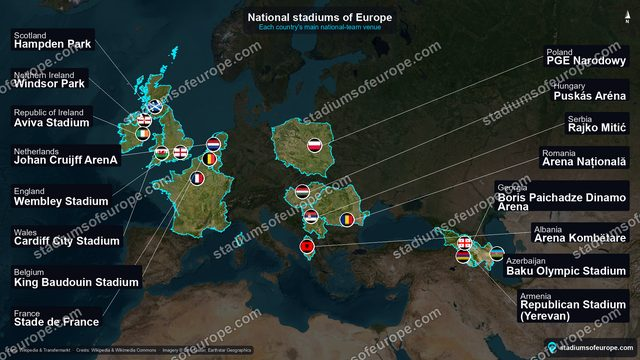
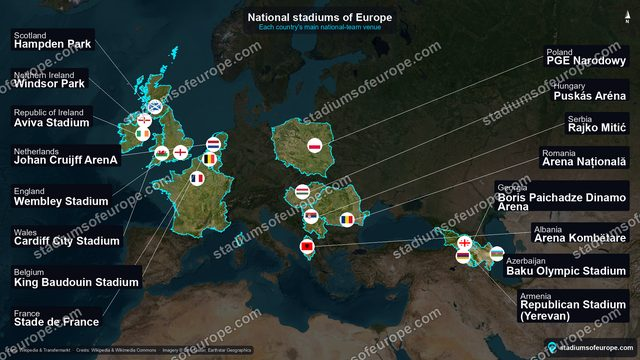
Respect a crest's own transparency, which was blacking out every badge
Juventus rendered as a solid black disc and Napoli as a navy one. Both crests
are perfectly legible over white; the renderer was destroying them.

Image.paste(im, box, mask) uses `mask` for alpha and DISCARDS the image's own
alpha channel. The badge paste passed only the circle mask, so every TRANSPARENT
pixel inside the circle was painted as its raw RGB -- and a PNG's transparent
pixels are almost always (0,0,0). The badge therefore darkened in proportion to
how transparent the crest was:

    Juventus  19% opaque -> 81% of the circle painted black
    Napoli    12% opaque -> 88%

It was never limited to those two. Every crest on every map was being darkened by
however much of it was transparent; those two are simply the ones sparse enough
to disappear completely. Multiplying the crest's alpha into the circle mask keeps
its transparency AND still crops to the circle, which is what was intended.

Worth recording how this was found, because I had it wrong twice. I first blamed
the source resolution, then _fit_badge_in_circle -- and measured both: the 1024
raster is clean and the fit is correct (84x134 artwork in a 160 box, only 26% of
the circle near-black). Compositing the SAME stored file over white by hand gave
a clean J. That contradiction is what pointed at the paste rather than the pixels.

Three paste sites fixed, three tests, and the tournament and insight PNGs
regenerated because they bake the renderer in.

260 tests pass.

diff --git a/italianstadia/italiastadiaapp/views.py b/italianstadia/italiastadiaapp/views.py
@@ -3080,7 +3080,7 @@ def _draw_inset(img, inset_stadiums, params, W, H, country_index, style_key,
         d.ellipse([px-rr, py-rr, px+rr, py+rr], fill=(255, 255, 255))
         if badge_img:
             b = badge_img.resize((BR*2, BR*2), Image.LANCZOS)
-            inset_img.paste(b, (px-BR, py-BR), _circle_mask(BR*2))
+            _paste_badge(inset_img, b, (px-BR, py-BR), BR*2)
         else:
             d.ellipse([px-BR, py-BR, px+BR, py+BR], fill=colour)
         dots.append((px, py, s))
@@ -3245,7 +3245,7 @@ def _draw_inset(img, inset_stadiums, params, W, H, country_index, style_key,
         d.ellipse([px-rr, py-rr, px+rr, py+rr], fill=(255, 255, 255))
         if badge_img:
             b = badge_img.resize((BR*2, BR*2), Image.LANCZOS)
-            inset_img.paste(b, (px-BR, py-BR), _circle_mask(BR*2))
+            _paste_badge(inset_img, b, (px-BR, py-BR), BR*2)
         else:
             d.ellipse([px-BR, py-BR, px+BR, py+BR],
                       fill=_dot_colour(s_, params, country_index))
@@ -3892,6 +3892,24 @@ def _circle_mask(d):
     return big.resize((d, d), Image.LANCZOS)
 
 
+def _paste_badge(dst, badge, xy, diameter):
+    """Paste a crest into the circular badge slot, keeping ITS OWN transparency.
+
+    Image.paste(im, box, mask) uses `mask` for alpha and DISCARDS the image's own
+    alpha channel. Passing the circle mask alone therefore painted every
+    transparent pixel inside the circle as its raw RGB, which in a PNG is almost
+    always black -- so the more transparent a crest was, the blacker its badge.
+    Juventus (19% opaque) rendered as a solid black disc and Napoli (12%) as a
+    navy one; both are legible the moment their alpha is respected.
+
+    Multiplying the two masks keeps the crest's transparency AND crops it to the
+    circle, which is what was intended all along.
+    """
+    from PIL import ImageChops
+    mask = ImageChops.multiply(badge.getchannel("A"), _circle_mask(diameter))
+    dst.paste(badge, xy, mask)
+
+
 def _compose_multi_badge(imgs, size):
     """Combine several tenant crests into one badge image (shared grounds).
     2 clubs -> left/right split; 3-4 -> 2x2 quadrants. Circle-masked by the caller."""
@@ -4153,8 +4171,8 @@ def _draw_dots_and_labels(img, stadiums, params, bbox, W, H, country_index,
             else:
                 draw.ellipse([px - rr, py - rr, px + rr, py + rr], fill=(255, 255, 255))
             if badge_img:
-                img.paste(badge_img, (px - BADGE_R, py - BADGE_R),
-                          _circle_mask(BADGE_R * 2))
+                _paste_badge(img, badge_img, (px - BADGE_R, py - BADGE_R),
+                             BADGE_R * 2)
                 draw = ImageDraw.Draw(img)
             else:
                 draw.ellipse([px - BADGE_R, py - BADGE_R, px + BADGE_R, py + BADGE_R], fill=colour)

diff --git a/italianstadia/italiastadiaapp/tests/test_data_integrity.py b/italianstadia/italiastadiaapp/tests/test_data_integrity.py
@@ -45,3 +45,48 @@ class BadgeKeyTests(SimpleTestCase):
     def test_never_returns_none(self):
         # a key of None would collapse every unkeyable row onto one badge
         self.assertEqual(_badge_key({}), "")
+
+
+class BadgeAlphaTests(SimpleTestCase):
+    """A crest's own transparency must survive the circular badge mask.
+
+    Image.paste(im, box, mask) uses `mask` for alpha and DISCARDS the image's own
+    alpha channel. Passing the circle mask alone painted every transparent pixel
+    inside the circle as its raw RGB, which in a PNG is almost always black — so
+    the more transparent a crest was, the blacker its badge. Juventus (19% opaque)
+    rendered as a solid black disc, Napoli (12%) as a navy one, and every other
+    crest was quietly darkened by however much of it was transparent.
+    """
+
+    def _badge(self, opaque_rgb=(255, 0, 0)):
+        """A crest that is a small opaque square on a transparent field."""
+        from PIL import Image
+        im = Image.new("RGBA", (40, 40), (0, 0, 0, 0))     # transparent = black RGB
+        for x in range(16, 24):
+            for y in range(16, 24):
+                im.putpixel((x, y), (*opaque_rgb, 255))
+        return im
+
+    def test_transparent_area_does_not_paint_black(self):
+        from PIL import Image
+        from italiastadiaapp.views import _paste_badge
+        dst = Image.new("RGB", (40, 40), (255, 255, 255))
+        _paste_badge(dst, self._badge(), (0, 0), 40)
+        # a point inside the circle but outside the artwork must stay white
+        self.assertEqual(dst.getpixel((20, 6)), (255, 255, 255))
+
+    def test_opaque_artwork_is_still_drawn(self):
+        from PIL import Image
+        from italiastadiaapp.views import _paste_badge
+        dst = Image.new("RGB", (40, 40), (255, 255, 255))
+        _paste_badge(dst, self._badge((255, 0, 0)), (0, 0), 40)
+        self.assertEqual(dst.getpixel((20, 20)), (255, 0, 0))
+
+    def test_artwork_outside_the_circle_is_still_cropped(self):
+        from PIL import Image
+        from italiastadiaapp.views import _paste_badge
+        badge = Image.new("RGBA", (40, 40), (255, 0, 0, 255))   # fully opaque square
+        dst = Image.new("RGB", (40, 40), (255, 255, 255))
+        _paste_badge(dst, badge, (0, 0), 40)
+        self.assertEqual(dst.getpixel((0, 0)), (255, 255, 255))  # corner clipped
+        self.assertEqual(dst.getpixel((20, 20)), (255, 0, 0))    # centre kept
